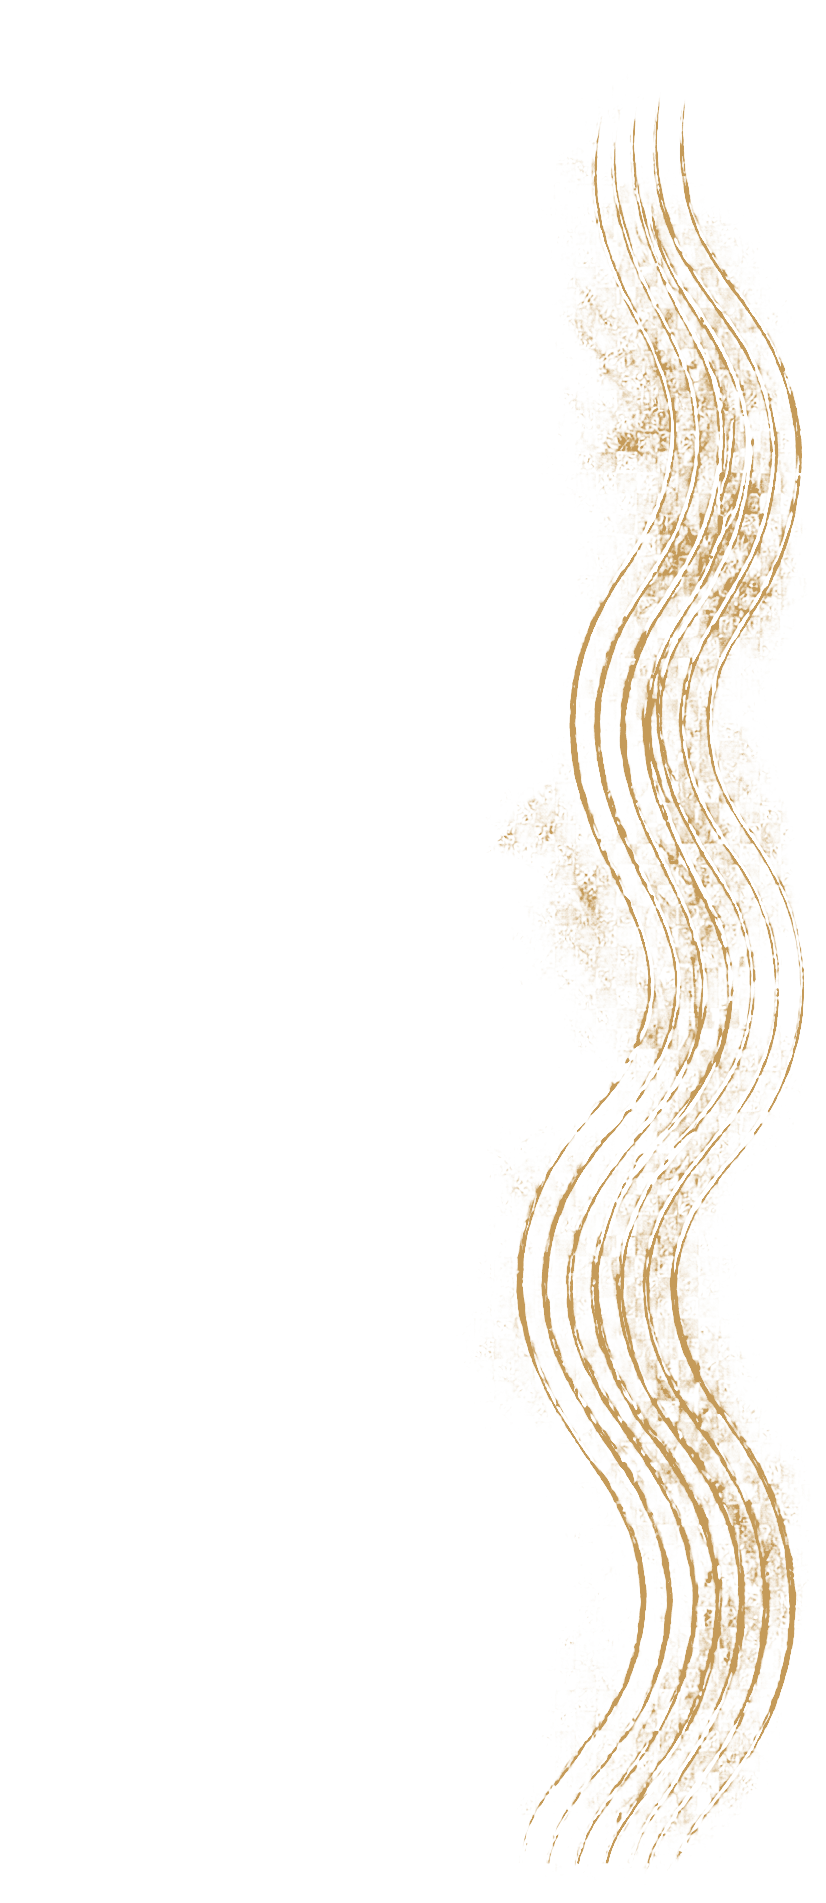
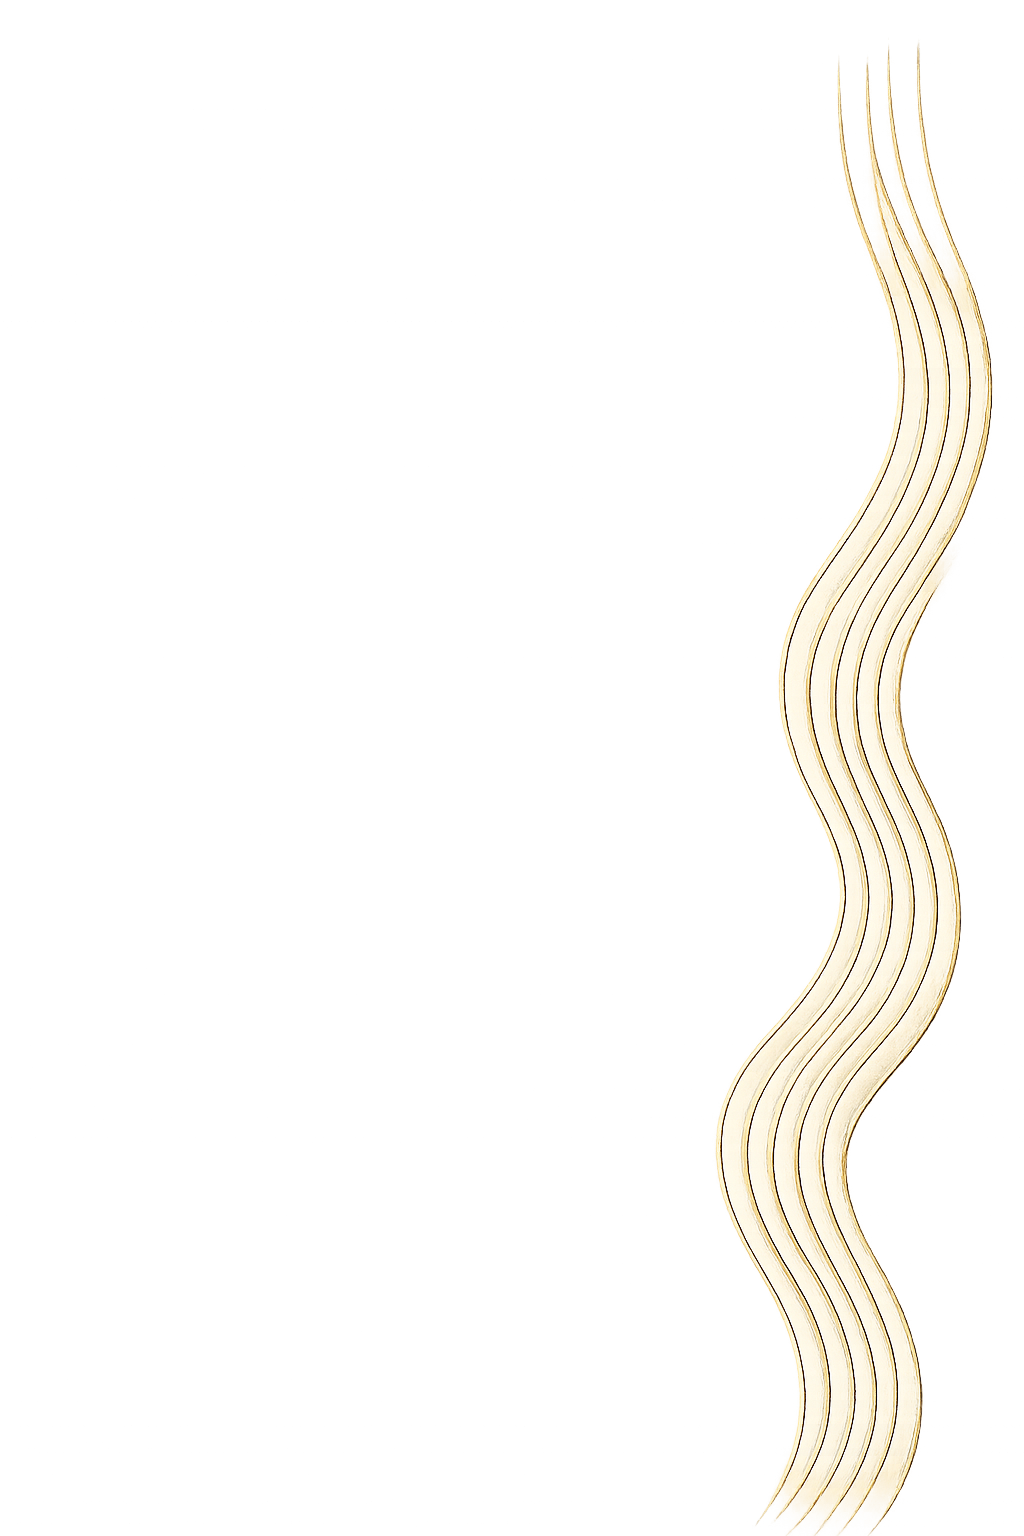
Use the genuinely transparent Blueprint Waves PNG exactly as delivered, no processing
This upload is a real RGBA PNG with actual alpha transparency (verified:
1402531 fully-transparent pixels, 36432 fully-opaque, mode=RGBA) — not
a checkerboard baked into flat RGB like every previous upload. Saved
directly to public/images/blueprint-waves.png with zero processing:
no extraction, no re-coloring, no cropping, no vectorization.

Verified the visible (non-transparent) pixels occupy only the
rightmost ~27% of the 1024px-wide source (x=715-992) — the rest is
genuinely empty, so a narrower CSS container crops transparent space,
not artwork.

Positioning updated to the newly specified exact values:
- Right padding: 32px on both drawers (was 24px / 14px)
- Public site drawer: 110px-wide container — sized against the
  longest nav label ('THE IN-HOME EXPERIENCE™', estimated ~185px of
  text) so there's still real clearance
- Client Portal sidebar: 45px-wide container, scaled down for the
  narrower 250px sidebar, checked against 'PROGRESS PHOTOS'
- Opacity unchanged at 0.48 (within the specified 45-50% range)

Background color corrected to the newly specified exact hex #E7DED2
(previously #E8DFD4) everywhere it's used: both drawers, portal shell,
and the auth screens' form-side panel.

Verified: npm run build, 34/34 routes, zero errors.

Honest caveat: exact text-width-vs-wave-container clearance is based
on estimated character widths (Jost 11px, 0.08em letter-spacing), not
measured pixel-perfect rendering, since this sandbox can't render the
[…]

Changed region(s): [[0.6053, 0.0312, 0.9685, 1.0], [0.6961, 0.0625, 0.7264, 0.0938], [0.6356, 0.4062, 0.6659, 0.4375]]

diff --git a/src/app/globals.css b/src/app/globals.css
@@ -202,7 +202,7 @@
     .client-portal-btn-desktop{display:none;}
     nav.menu{
       position:fixed;top:0;right:-100%;height:100dvh;width:82%;max-width:380px;
-      background:#E8DFD4;flex-direction:column;justify-content:flex-start;
+      background:#E7DED2;flex-direction:column;justify-content:flex-start;
       gap:0;padding:0;transition:right .28s ease, transform .22s ease;box-shadow:-10px 0 40px rgba(0,0,0,0.1);
       z-index:101;overflow:hidden;touch-action:pan-y;
     }
@@ -216,12 +216,17 @@
        drawer itself, so it never reads as a separate panel/column).
        The image's own transparency handles the fade toward the left;
        the container is intentionally full-width. */
-    /* Body Blueprint Waves™ — official vertical asset, confined to a
-       right-inset strip so it can never touch the logo, Client Portal
-       button, nav items, dividers, or text. Purely decorative,
-       subtle, behind all content (z-index 0). */
+    /* Body Blueprint Waves™ — official transparent asset, used exactly
+       as delivered (unmodified). Confined to a right-inset strip so
+       it can never touch the logo, Client Portal button, nav items,
+       dividers, or text. Purely decorative, subtle, behind all
+       content (z-index 0). Container width is deliberately narrower
+       than the asset's full rendered width — the image's own
+       transparency means only its right portion has visible pixels,
+       so this crops empty space, not artwork, while guaranteeing
+       clearance from the longest nav label. */
     .menu-waves{
-      display:block;position:absolute;top:0;right:24px;height:100%;width:100px;
+      display:block;position:absolute;top:0;right:32px;height:100%;width:110px;
       opacity:0.48;pointer-events:none;z-index:0;
     }
     .menu-close-x{
@@ -2011,7 +2016,7 @@
 /* =====================================================================
    Client Portal — navigable app shell (Phase 1, mock data)
 ===================================================================== */
-.portal-shell{ display:flex; min-height:100vh; background:#E8DFD4; }
+.portal-shell{ display:flex; min-height:100vh; background:#E7DED2; }
 .portal-loading{
   min-height:100vh; display:flex; align-items:center; justify-content:center;
   font-family:var(--sans); color:var(--charcoal); background:#F5EEE4;
@@ -2024,12 +2029,12 @@
    panel. "Opening the drawer should feel like opening the inside
    cover of a luxury brand book." */
 .psb{
-  width:250px; flex-shrink:0; background:#E8DFD4; color:#2B2622; padding:0;
+  width:250px; flex-shrink:0; background:#E7DED2; color:#2B2622; padding:0;
   display:flex; flex-direction:column; position:sticky; top:0; height:100dvh;
   border-right:1px solid rgba(43,38,34,0.08); overflow:hidden;
 }
 .psb-waves{
-  position:absolute; top:0; right:14px; height:100%; width:70px;
+  position:absolute; top:0; right:32px; height:100%; width:45px;
   opacity:0.48; pointer-events:none; z-index:0;
 }
 .psb-inner{ position:relative; z-index:1; padding:21px 18px 15px; display:flex; flex-direction:column; height:100%; }
@@ -2080,7 +2085,7 @@
 .auth-tagline{ font-family:var(--serif); font-weight:500; font-style:italic; font-size:22px; line-height:1.4; opacity:.92; }
 .auth-spark{ display:block; margin-top:36px; font-size:20px; opacity:.8; }
 
-.auth-form-side{ flex:1; display:flex; align-items:center; justify-content:center; background:#E8DFD4; padding:40px; }
+.auth-form-side{ flex:1; display:flex; align-items:center; justify-content:center; background:#E7DED2; padding:40px; }
 .auth-form-card{ width:100%; max-width:400px; }
 .auth-form-card h1{ font-family:var(--serif); font-weight:500; font-size:32px; color:var(--charcoal); margin-bottom:10px; }
 .auth-form-sub{ font-family:var(--sans); font-size:13px; color:var(--charcoal); opacity:.65; line-height:1.5; margin-bottom:32px; }

diff --git a/src/components/BlueprintWaves.tsx b/src/components/BlueprintWaves.tsx
@@ -1,10 +1,10 @@
 /**
  * BlueprintWaves — the official "Body Blueprint Waves™" graphic.
  *
- * Sourced directly from the official BSS Design System vertical asset
- * export (a dedicated portrait-orientation transparent PNG, purpose-
- * built for this exact placement — not a screenshot, not a landscape
- * crop). Do not redraw, simplify, or replace this asset.
+ * This PNG was delivered with genuine alpha transparency (not a
+ * screenshot, not a checkerboard-baked flat image) and is used here
+ * completely unmodified — no extraction, no re-coloring, no cropping
+ * of the file itself. Do not redraw, simplify, or replace it.
  */
 export default function BlueprintWaves({ className = "" }: { className?: string }) {
   return (